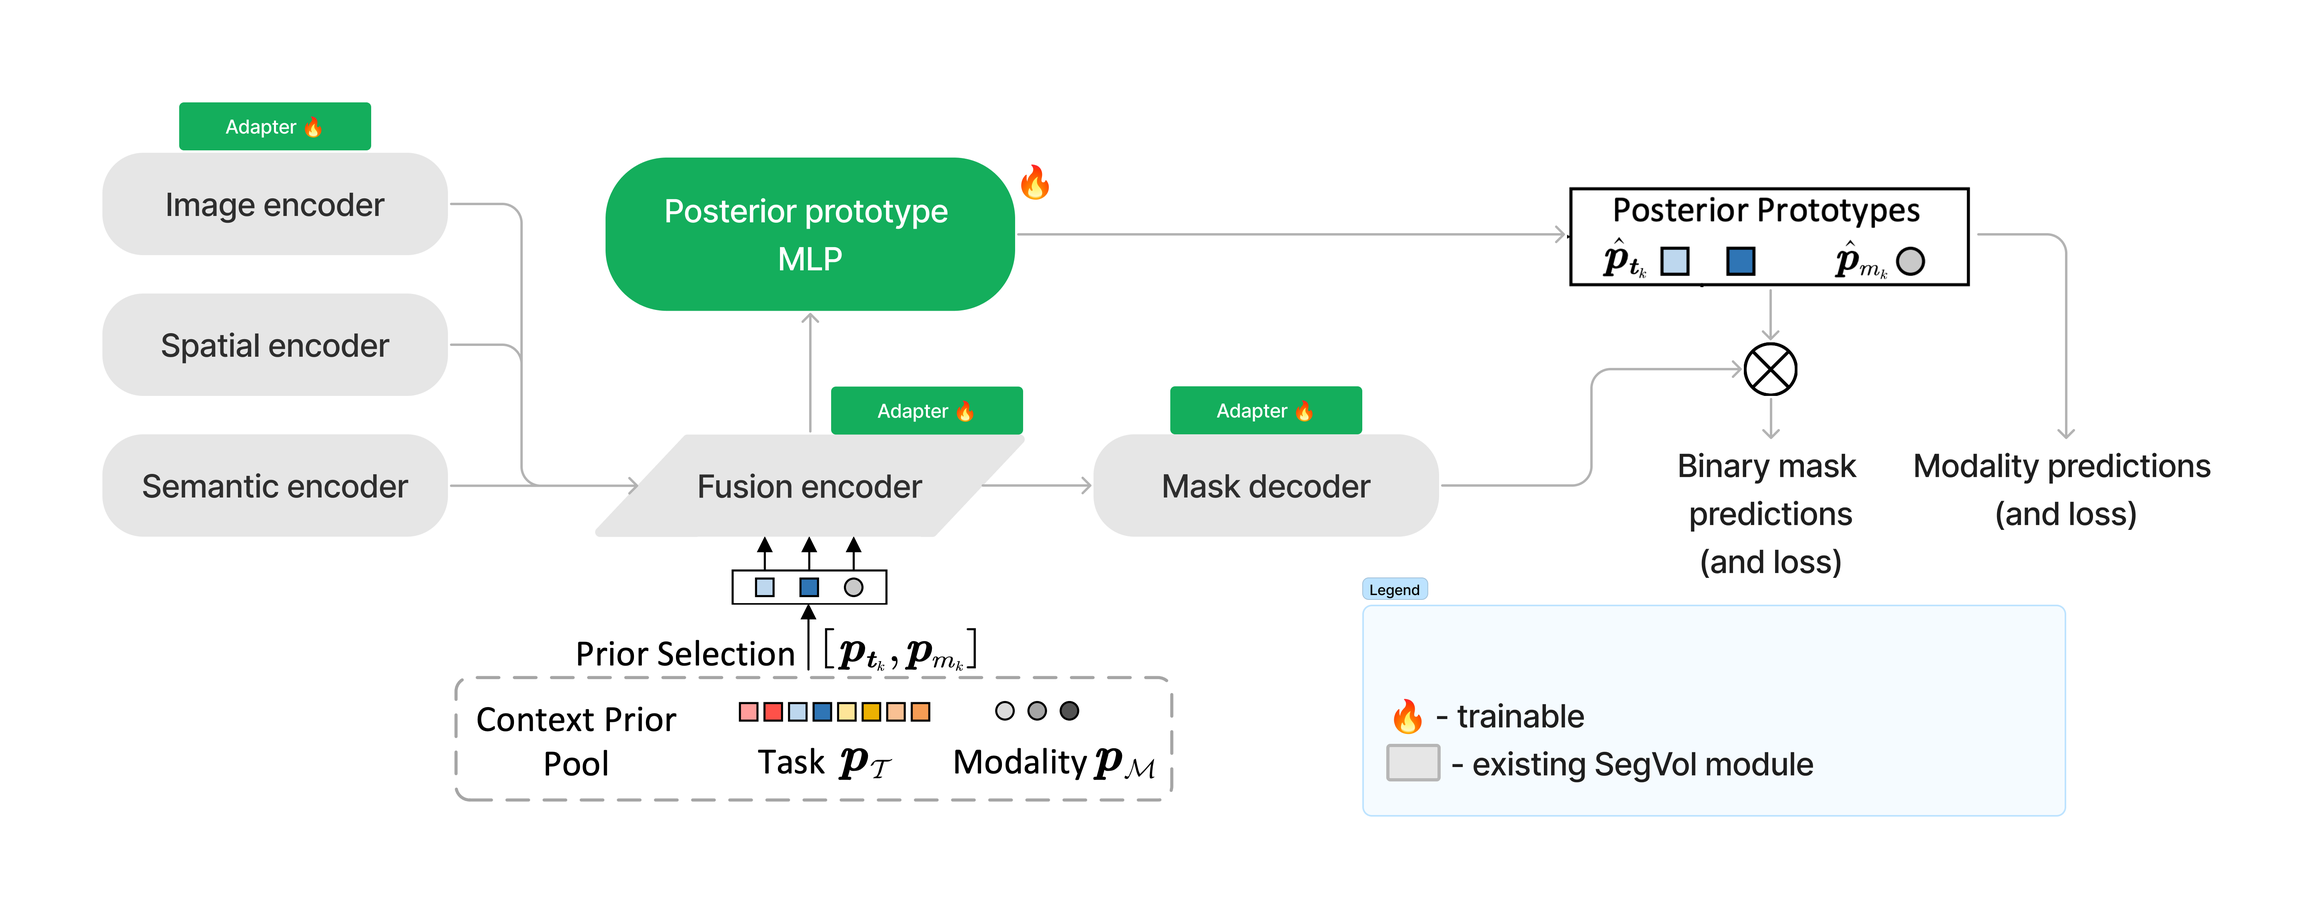
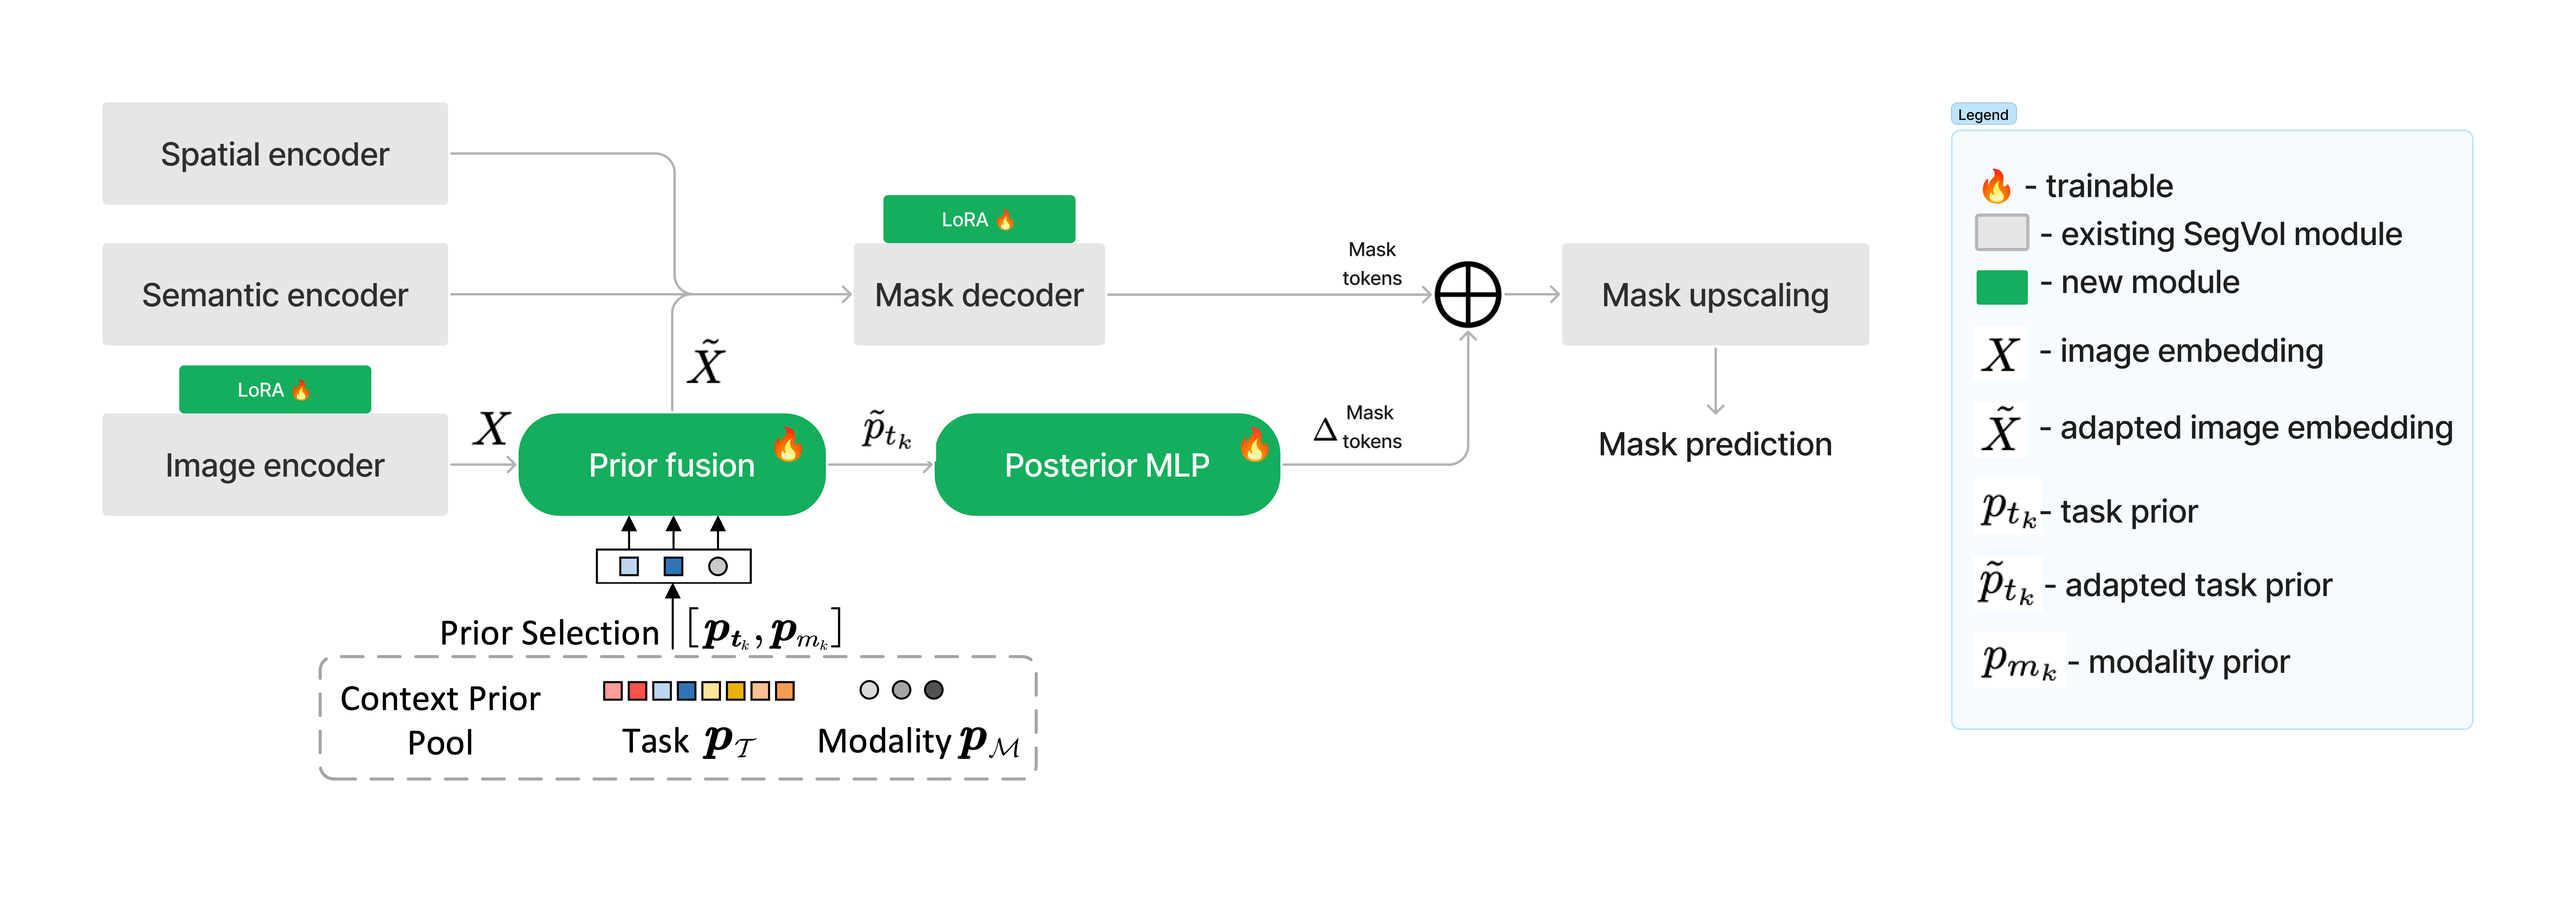
context prior architecture

diff --git a/SegVol/model_segvol_single.py b/SegVol/model_segvol_single.py
@@ -1172,8 +1172,6 @@ def sliding_window_inference(
                     generate_box(pseudo_label.squeeze()).unsqueeze(0).float().to(device)
                 )
 
-        print(f"text to predictor: {text}")
-        print(f"modality to predictor: {modality}")
         seg_prob_out = predictor(
             window_data, text, boxes, points, modality=modality, train_organs=text
         )  # batched patch segmentation

diff --git a/blogpost.md b/blogpost.md
@@ -84,43 +84,28 @@ In this study, we use LoRA to adapt SegVol (initially trained on CT volumes) to 
 Mixture of Adapters (MoA) is an advanced adaptation technique inspired by the Mixture of Experts (MoE) approach [[14]](#ref13) that utilizes multiple lightweight adapter modules within a model to handle diverse tasks and modalities. Each adapter specializes in a specific task or modality, and the model dynamically selects and combines these adapters during inference [[8]](#ref8). With regards to our study, we explore the integration of MoA into the SegVol architecture to further enhance its adaptability and performance across two medical imaging modalities, CT and MRI.
 
 
+
 ### Context-prior learning
+Medical imaging data is characteristically heterogeneous and diverse: different organs have completely different shapes and positions, and image features vary wildly across modalities, such as between CT and MRI. Thus, MIS models are primarily designed for specific tasks and modalities. The downside of such an approach is that models are confined to specific tasks for which they have been trained. They do not exploit similarities across tasks and modalities, which seems wasteful given the scarcity of available medical datasets. However, training across a variety of tasks and modalities requires approaches that are designed to be able universal. 
 
-Medical segmentation models focus predominantly on fine-tuning to specific modalities. However, this detracts from their generalizability and prevents learning of features useful across modalities. SegVol is a state-of-the-art model for medical image segmentation on the CT modality. Whereas it shows promising zero-shot results on the MRI modality, it underperforms compared to specialized MRI segmentation models. We aim to bring the performance of SegVol to state-of-the-art on the MRI modality, while preserving its performance on the CT modality. To that end we explore learning context-prior tokens for each task and modality (as proposed for medical image segmentation by [Gao et al. 2024](https://arxiv.org/pdf/2306.02416)). The idea is to let the segmentation model learn modality- and task-specific tokens that condition image encoding and mask decoding. These tokens are then fused via a transformer with the image representations from the image encoder, resulting in an updated image representation and updated context-prior tokens. The updated image representations are fed to the mask decoder. An MLP is applied on top of the updated context-prior tokens to generate posterior prototypes. The updated image representation and posterior prototypes are multiplied to obtain the final binary mask predictions. The resulting model is called Hermes. Hermes shows improvements over existing task-specific approaches across tasks and modalities. However, it is inferior to SegVol. Hence, we aim to combine the strengths of SegVol and Hermes to achieve state-of-the-art performance on both the CT and MRI modalities.
+[11](#ref11) explore the universal medical image segmentation paradigm. They propose integrating learnable per-modality and per-task tokens, called **context priors**, into existing MIS architectures. Context priors are used to adapt the image representation to the specified task and modality, essentially conditioning the segmentation. This is done by passing both the context prior tokens and the output of the image encoder through a transformer block, called **prior fusion**. The mask decoder will then use the adapted image representation, instead of the original one.
 
-### Architecture overview
+Furthermore, the context priors, after being passed through the prior fusion block and interacting with the image representation, are called **posterior tokens**. Posterior tokens combine the information from context prior tokens and image representation via the prior fusion mechanism, and are used to generate **posterior prototypes**. The final segmentation output of the model is the inner product of the mask decoder output with the posterior prototypes, where posterior prototypes serve as class classifiers.
 
-<table align="center">
-  <tr align="center">
-    <th>SegVol</th>
-    <th>Hermes</th>
-  </tr>
-  <tr align="center">
-    <td><img src="./assets/SegVol.png" alt="SegVol"></td>
-    <td><img src="./assets/Hermes.png" alt="Hermes"></td>
-  </tr>
-  <tr align="left">
-    <td colspan="2"><b>Figure 1.</b> Two approaches for medical segmentation. SegVol [1] provides universal and interactive volumetric segmentation, while Hermes [11] enhances segmentation accuracy through context-prior learning.</td>
-  </tr>
-</table>
-
-
-
-
-Hermes has been shown to be compatible with existing backbones, including ViT, as used in SegVol. SegVol builds on top of Segment Anything (SAM), with image, spatial and semantic embeddings fused and fed to the mask decoder. In case of Hermes, the reference architecture is similar: an image encoder, followed by fusion of image embeddings and context prior tokens, and then followed by a mask decoder.
-
-**Proposed approach to applying SegVol to Hermes:**
-We apply the approach taken by Hermes to the pre-trained SegVol model. Following the approach from the Hermes paper, we introduce context priors, a posterior prototype MLP, and add adapters to image encoder, fusion encoder and mask decoder.
-Currently, we are still experimenting with the precise architecture that would yield the best results. However, conceptually it looks as follows:
-
-<table align="center">
+<table align="center" name="fig3">
   <tr align="center">
       <td><img src="./assets/adapt_med_seg.png"></td>
   </tr>
   <tr align="left">
-    <td colspan="2"><b>Figure 2.</b> Proposed architecture combining SegVol model [1] and Hermes context-prior framework [11]. This hybrid model integrates SegVol’s volumetric segmentation with Hermes’s context-prior learning to enhance accuracy.</td>
+    <td colspan="2"><b>Figure 3.</b> Proposed architecture combining SegVol model and Hermes context-prior framework. This hybrid model integrates SegVol’s volumetric segmentation with Hermes’s context-prior learning.</td>
   </tr>
 </table>
+
+We apply the approach taken by Hermes to the pre-trained SegVol model, with slight modifications, as described below. You can refer to the figure above for an overview.
+- **Context prior pool.** Following the approach from the Hermes paper, we introduce a context prior pool. Whenever the model encounters a new modality or task (which are known in advance per dataset), a new context prior is added to the pool. **Prior fusion.** To adapt the image encoder output and obtain the posterior tokens, we introduce the prior fusion attention module. 
+- **Posterior prototype.** We use the posterior tokens obtained from prior fusion to adapt the mask decoder output. As opposed to Hermes, we use the posterior tokens as an additive adaptation to the mask decoder output tokens, rather than as a multiplicative adaptation over the feature map resulting from the mask decoder. We take this approach as we focus on single-class tasks, thus posterior prototypes as presented in the original paper would not be meaningful to our case. Ablation studies show that adding posterior information to the mask decoder output tokens is effective (TODO). 
+- **Fine-tuning the SegVol image encoder and mask decoder.** In Hermes, the task and modality priors are learned together with the backbone. Since SegVol is pre-trained, we fine-tune its image encoder and mask decoder using LoRA for better integration with the Hermes architecture. 
+- **Modality prediction loss.** Unlike in Hermes, we do not implement the auxiliary modality prediction loss, since it was shown, in the original paper, to only yield a minor improvement.
 
 
 ## Results
